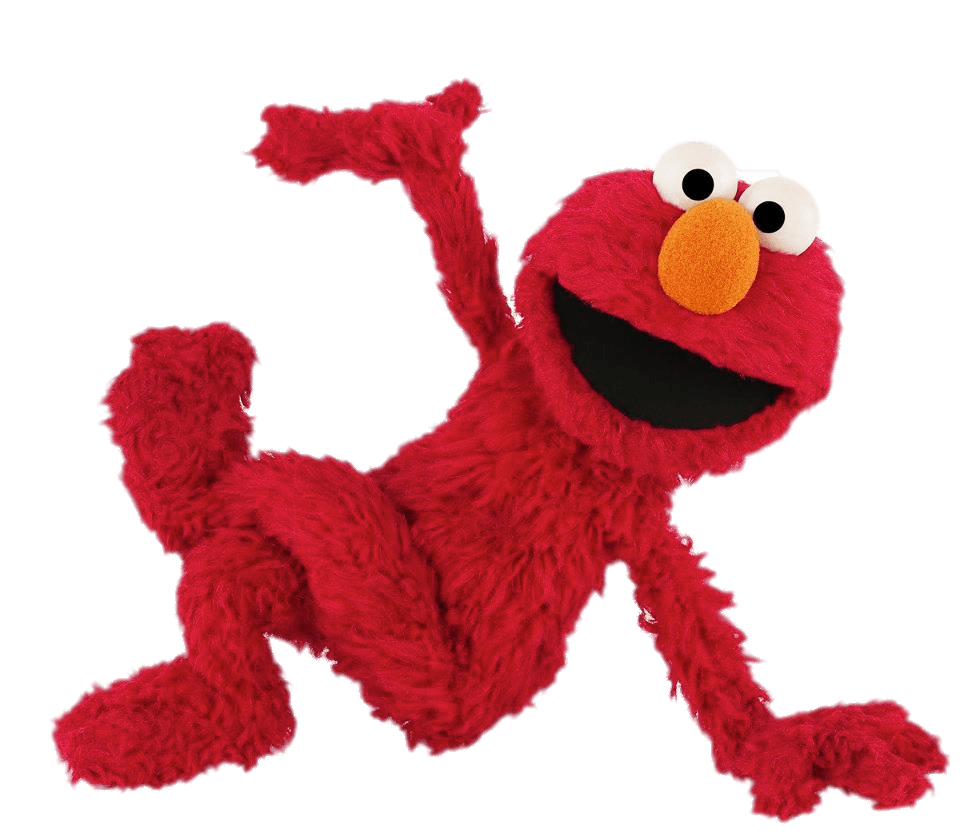
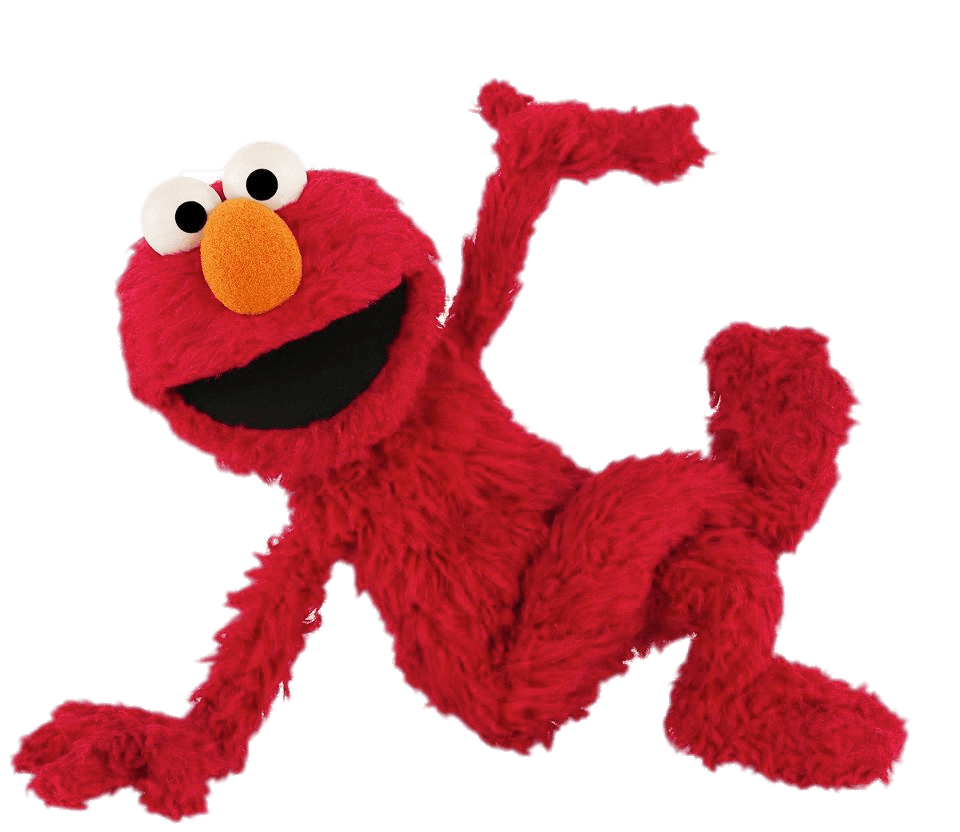
final commit

diff --git a/css/gallery.css b/css/gallery.css
@@ -15,7 +15,7 @@ button {
 }
 
 button:hover {
-    background-color: rgb(172, 153, 7);
+    background-color: rgb(247, 226, 68);
 }
 
 /* GALLERY  */
@@ -68,7 +68,7 @@ button:hover {
     box-shadow: -5px 5px 0px 0px rgba(242, 225, 38, 0.454);
     cursor: pointer;
     animation: none;
-    transition: box-shadow .4s;
+    transition: box-shadow .6s;
 }
 
 .gallery-img:hover {
@@ -93,7 +93,8 @@ h1.gallery-title {
     flex-wrap: wrap;
     align-content: space-between;
     gap: 1rem;
-    border: 2px solid rgba(114, 114, 114, 0.563);
+    background-color: #f4f4f4;
+    box-shadow: 0px 0px 5px 0px rgba(130, 130, 130, 0.45);
     border-radius: 3rem;
     max-width: 70rem;
     flex-wrap: wrap;
@@ -149,7 +150,8 @@ input.edit-line {
     grid-column: 1 / span 4;
     grid-row: 1;
     font-family: rubik;
-    font-size: 1.1rem;
+    font-size: 0.9rem;
+    color: black !important;
     height: 1.9rem;
 }
 
@@ -200,7 +202,7 @@ img.download {
 }
 
 .save-btn {
-    background-color: rgb(254, 212, 212);
+    background-color: rgba(3, 1, 26, 0.555);
     padding: 0;
     border: 1px solid gray;
     border-radius: 7px;
@@ -208,13 +210,13 @@ img.download {
     transition: all .6s;
     padding: 3px;
     cursor: pointer;
-    box-shadow: 3px 3px 4px 0 rgba(62, 62, 56, 0.214), inset 2px 2px 0 0 rgb(254, 212, 212);
+    box-shadow: 3px 3px 4px 0 rgba(62, 62, 56, 0.214);
     grid-column: 3;
     grid-row: 2;
 }
 
 .edit-text {
-    background-color: rgba(254, 247, 174, 0.493);
+    background-color: rgba(3, 1, 26, 0.555);
     border-radius: 1rem;
     box-shadow: 0px 0px 5px 0px rgba(114, 113, 113, 0.85);
     grid-column: 1 / span 4;
@@ -224,9 +226,10 @@ img.download {
     flex-direction: row;
     height: 7.5rem;
     padding: 5px 0;
-    width: 9.5rem;
-    justify-content: center;
-    align-content: space-between;
+    width: 9.3rem;
+    justify-content: space-between;
+    align-content: space-around;
+    padding: 9px;
 }
 
 .color-picker {
@@ -244,7 +247,7 @@ img.download {
 }
 
 .color-picker:hover {
-    background-color: rgb(172, 153, 7);
+    background-color: rgb(247, 226, 68);
 }
 
 .choose-color {
@@ -267,6 +270,15 @@ button.open-stickers-btn:hover {
 .open-stickers-btn img {
     width: 50px;
     height: 50px;
+}
+
+.elmo-canvas-img {
+    width: 40%;
+    height: 40%;
+    object-fit: contain;
+    position: fixed;
+    left: 70px;
+    top: 370px;
 }
 
 /* STICKERS */
@@ -352,6 +364,12 @@ button.open-stickers-btn:hover {
         margin: 0 auto;
         width: 50%;
     }
+    .elmo-canvas-img {
+        width: 35%;
+        height: 35%;
+        left: 60px;
+        top: 450px;
+    }
     .color-picker {
         width: 2rem;
         height: 2rem;
@@ -376,13 +394,13 @@ button.open-stickers-btn:hover {
         border-radius: 10px;
     }
     .edit-text {
-        background-color: rgba(254, 247, 174, 0.493);
+        background-color: rgba(3, 1, 26, 0.555);
         border-radius: 1rem;
         box-shadow: 0px 0px 5px 0px rgba(114, 113, 113, 0.85);
         grid-column: 5 / span 4;
         grid-row: 3 / span 2;
         height: 7rem;
-        padding: 5px 0;
+        padding: 5px;
         width: 7.5rem;
     }
     .text-up-btn {
@@ -428,6 +446,12 @@ button.open-stickers-btn:hover {
 }
 
 @media (max-width: 1000px) {
+    .elmo-canvas-img {
+        width: 30%;
+        height: 30%;
+        left: 20px;
+        top: 510px;
+    }
     .stickers-section {
         left: 38rem;
         height: 54%;
@@ -469,6 +493,12 @@ button.open-stickers-btn:hover {
 }
 
 @media (max-width: 750px) {
+    .elmo-canvas-img {
+        width: 25%;
+        height: 25%;
+        left: 0px;
+        top: 470px;
+    }
     .stickers-section {
         left: 25rem;
     }
@@ -537,21 +567,21 @@ button.open-stickers-btn:hover {
 
 @keyframes meme {
     0% {
-        box-shadow: -5px 5px 0px 0px rgba(242, 225, 38, 0.454);
+        box-shadow: -5px 5px 0px 0px rgba(235, 226, 134, 0.61);
     }
     25% {
-        box-shadow: -5px 5px 0px 0px rgb(215, 129, 212);
+        box-shadow: -5px 5px 0px 0px rgb(215, 171, 129);
     }
     50% {
-        box-shadow: -5px 5px 0px 0px rgb(174, 218, 173);
+        box-shadow: -5px 5px 0px 0px rgb(228, 168, 168);
     }
     75% {
-        box-shadow: -5px 5px 0px 0px rgb(117, 121, 190);
+        box-shadow: -5px 5px 0px 0px rgb(206, 152, 206);
     }
     90% {
-        box-shadow: -5px 5px 0px 0px rgb(215, 129, 212);
+        box-shadow: -5px 5px 0px 0px rgb(164, 219, 196);
     }
     100% {
-        box-shadow: -5px 5px 0px 0px rgba(242, 225, 38, 0.454);
+        box-shadow: -5px 5px 0px 0px rgba(139, 221, 139, 0.454);
     }
 }

diff --git a/gallery.html b/gallery.html
@@ -69,6 +69,7 @@
             <a class="pref-button save-btn" download="" onclick="onDownloadCanvas(this)"><img class="download"
                     src="img/site-img/save-btn.png" alt=""></a>
         </section>
+        <img src="img/site-img/canvas-main.png" class="elmo-canvas-img" alt="">
     </main>
 
     <!-- gallery -->
